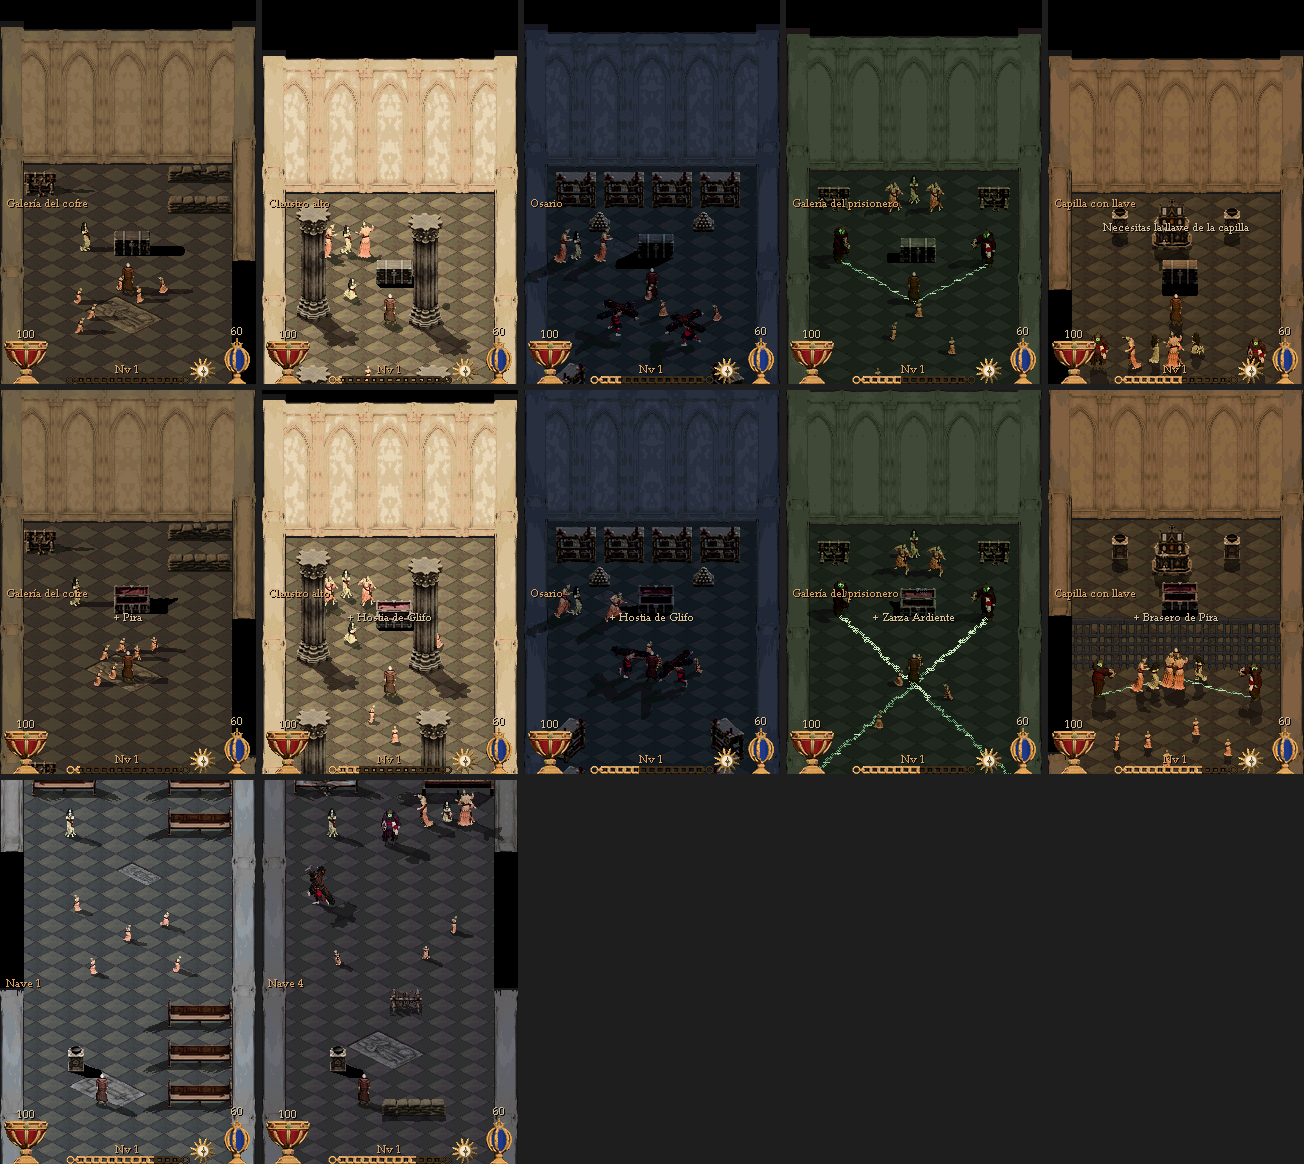
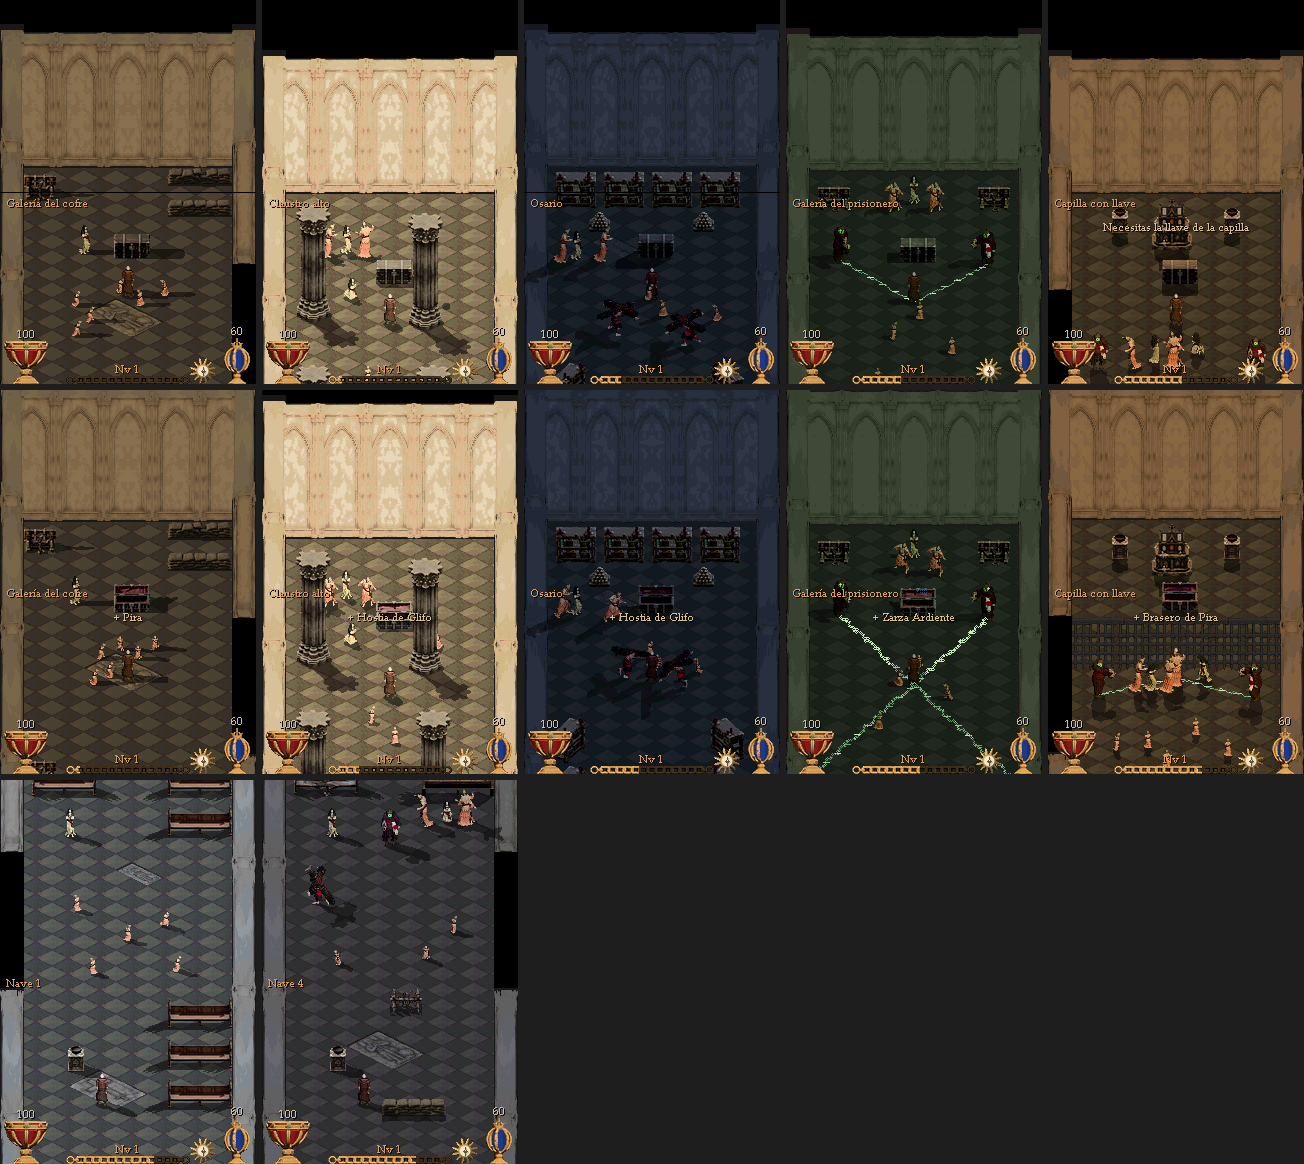
fix(arpg-luz): sombra del cofre sobre el suelo real, no sobre buffer vacio

diff --git a/source/encounters_act1.c b/source/encounters_act1.c
@@ -1924,7 +1924,12 @@ void enc_dynamic_relic_draw(uint16_t *buffer, int cam_x, int cam_y, int depth) {
             if (sx < 0 || sx >= SCREEN_W) continue;
             if (world_pixel_hidden(wx0 + i, wy, depth)) continue;
             // 1 = cast shadow of the lit art: halve what is already on screen (same darkening as apply_shadow_fast).
-            row[sx] = c == 1 ? (uint16_t)(((row[sx] & 0x7BDE) >> 1) | BIT(15)) : c;
+            if (c == 1) {  // the buffer is empty (0) over the floor: read the floor, like draw_shadow_mask
+                const uint16_t under = row[sx] ? row[sx] : world_floor_color_at(wx0 + i, wy);
+                row[sx] = (uint16_t)(((under & 0x7BDE) >> 1) | BIT(15));
+            } else {
+                row[sx] = c;
+            }
             if (sx < min_x) min_x = sx;
             if (sx > max_x) max_x = sx;
         }
@@ -2040,7 +2045,12 @@ void enc_dynamic_fixture_draw(int index, uint16_t *buffer, int cam_x, int cam_y,
             if (sx < 0 || sx >= SCREEN_W) continue;
             if (world_pixel_hidden(wx0 + i, wy, depth)) continue;
             // 1 = cast shadow of the lit art: halve what is already on screen (same darkening as apply_shadow_fast).
-            row[sx] = c == 1 ? (uint16_t)(((row[sx] & 0x7BDE) >> 1) | BIT(15)) : c;
+            if (c == 1) {  // the buffer is empty (0) over the floor: read the floor, like draw_shadow_mask
+                const uint16_t under = row[sx] ? row[sx] : world_floor_color_at(wx0 + i, wy);
+                row[sx] = (uint16_t)(((under & 0x7BDE) >> 1) | BIT(15));
+            } else {
+                row[sx] = c;
+            }
             if (sx < min_x) min_x = sx;
             if (sx > max_x) max_x = sx;
         }
